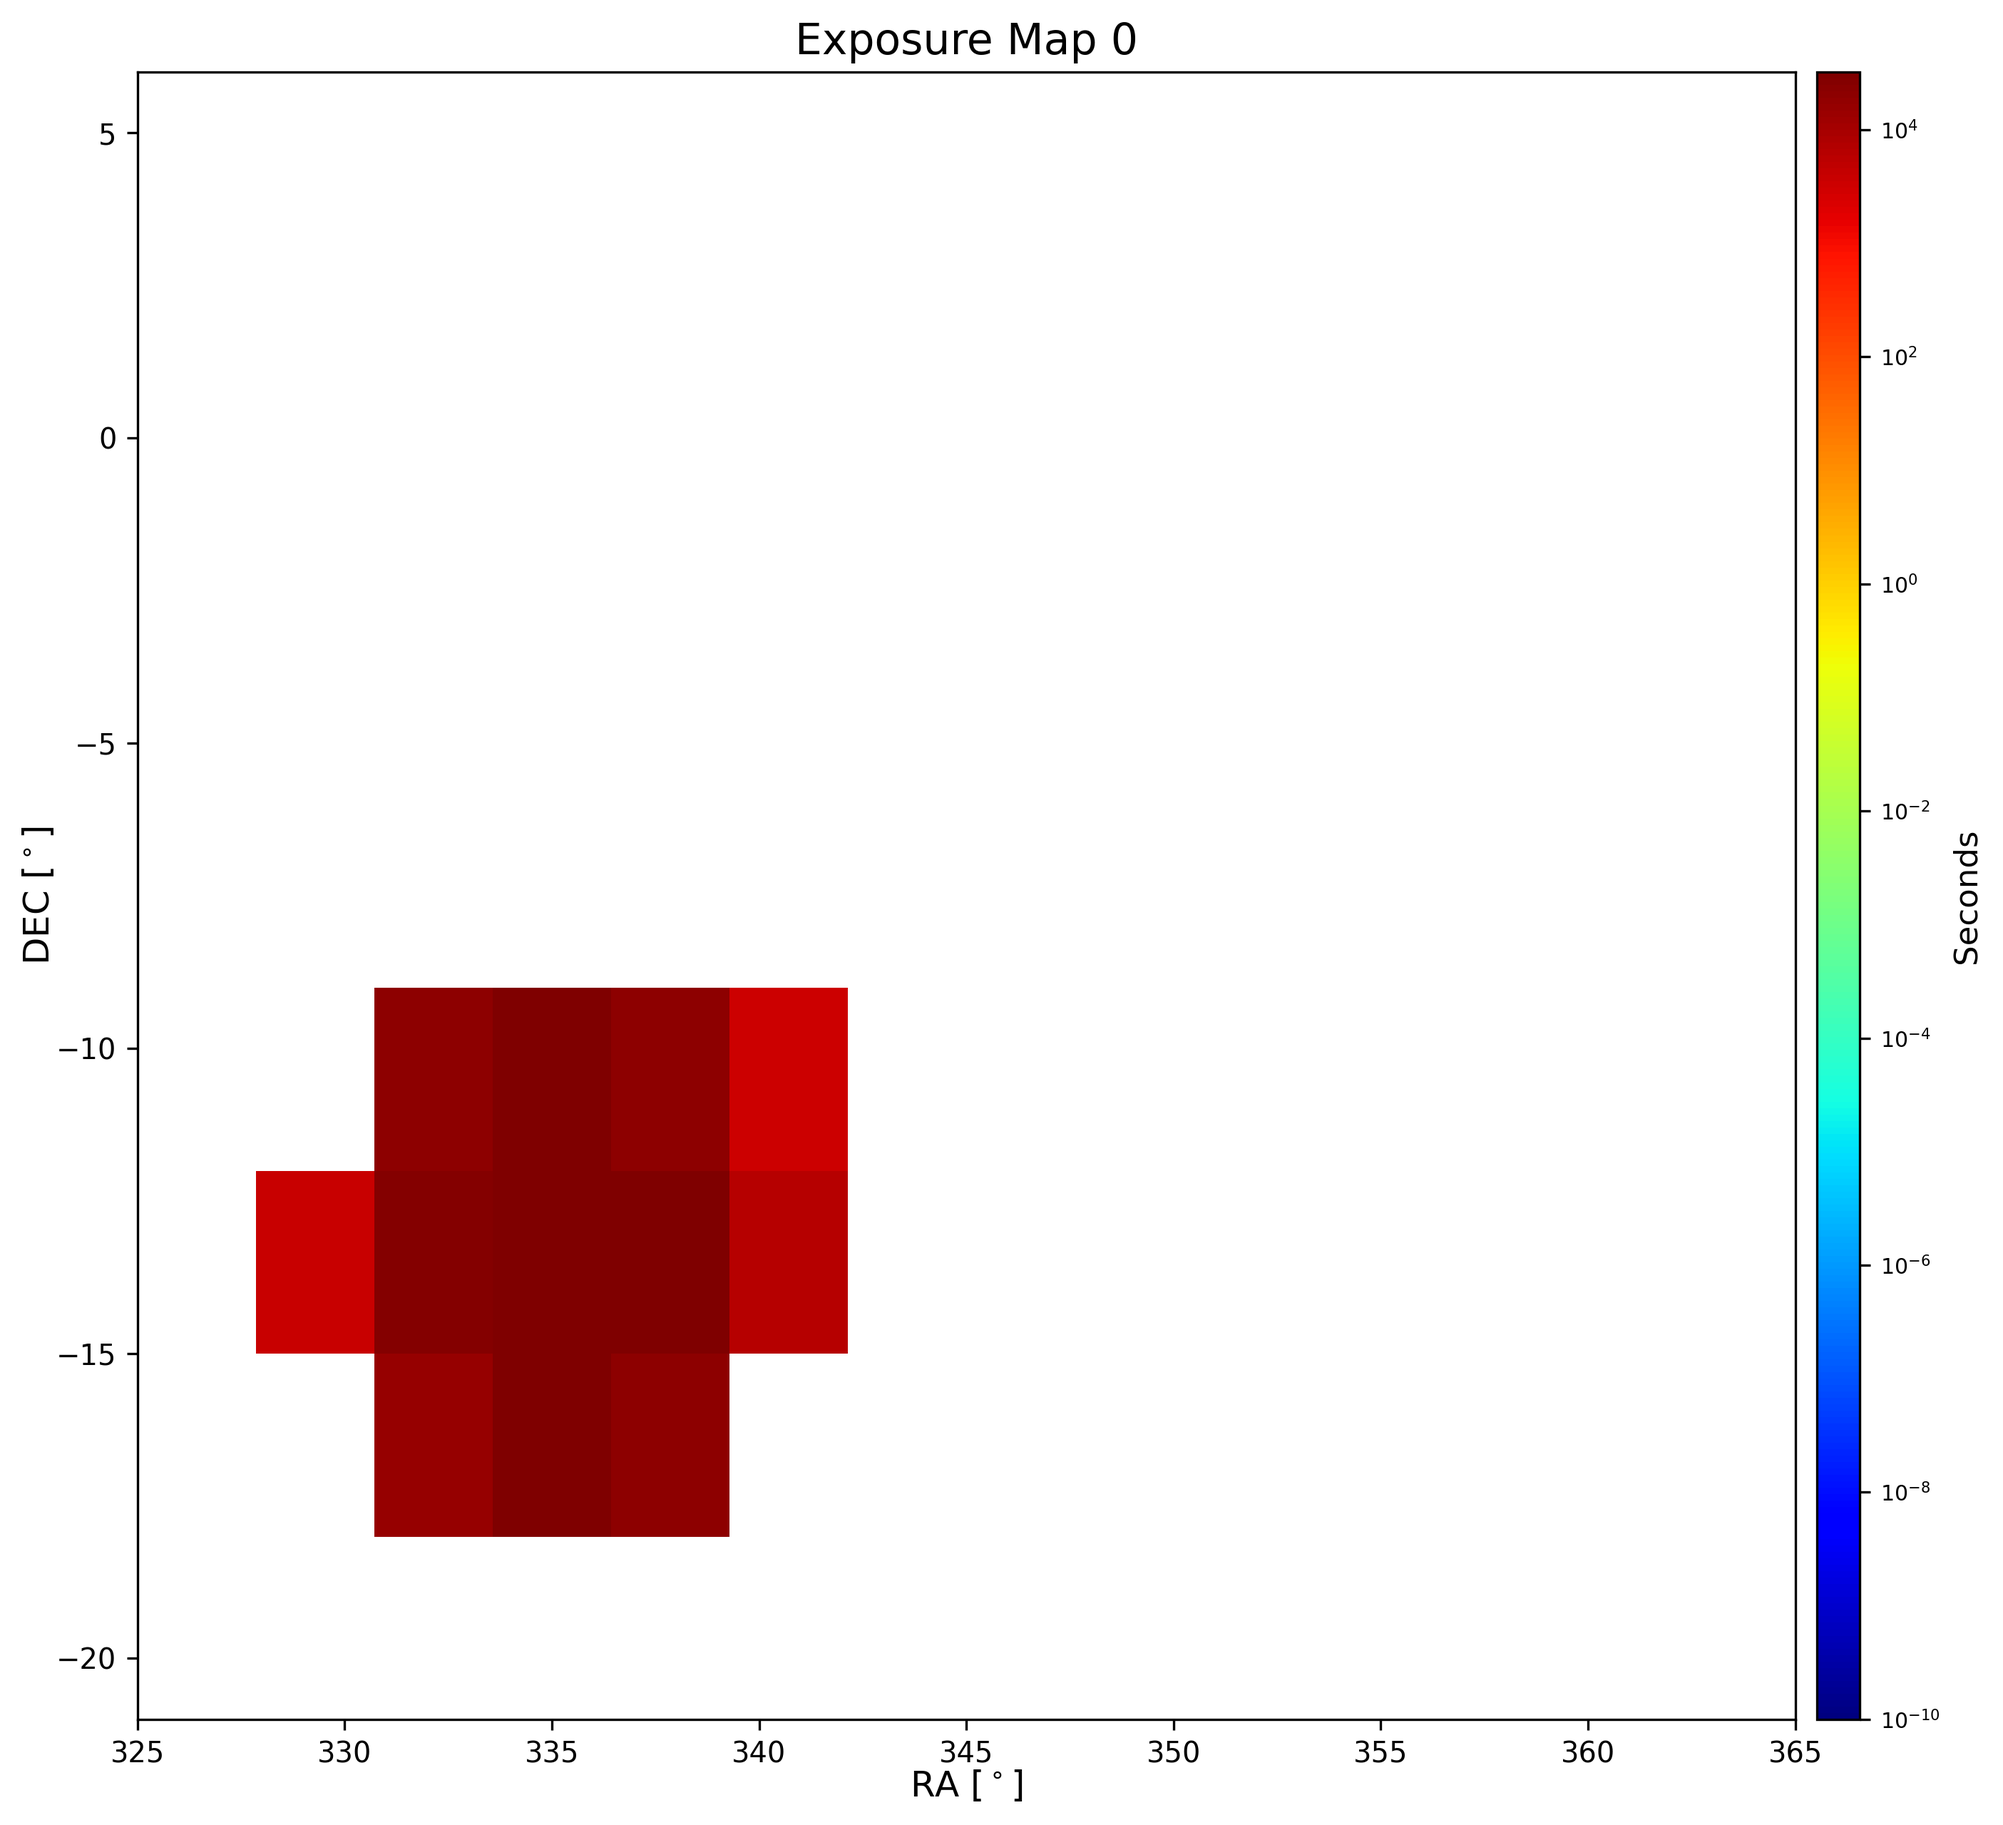
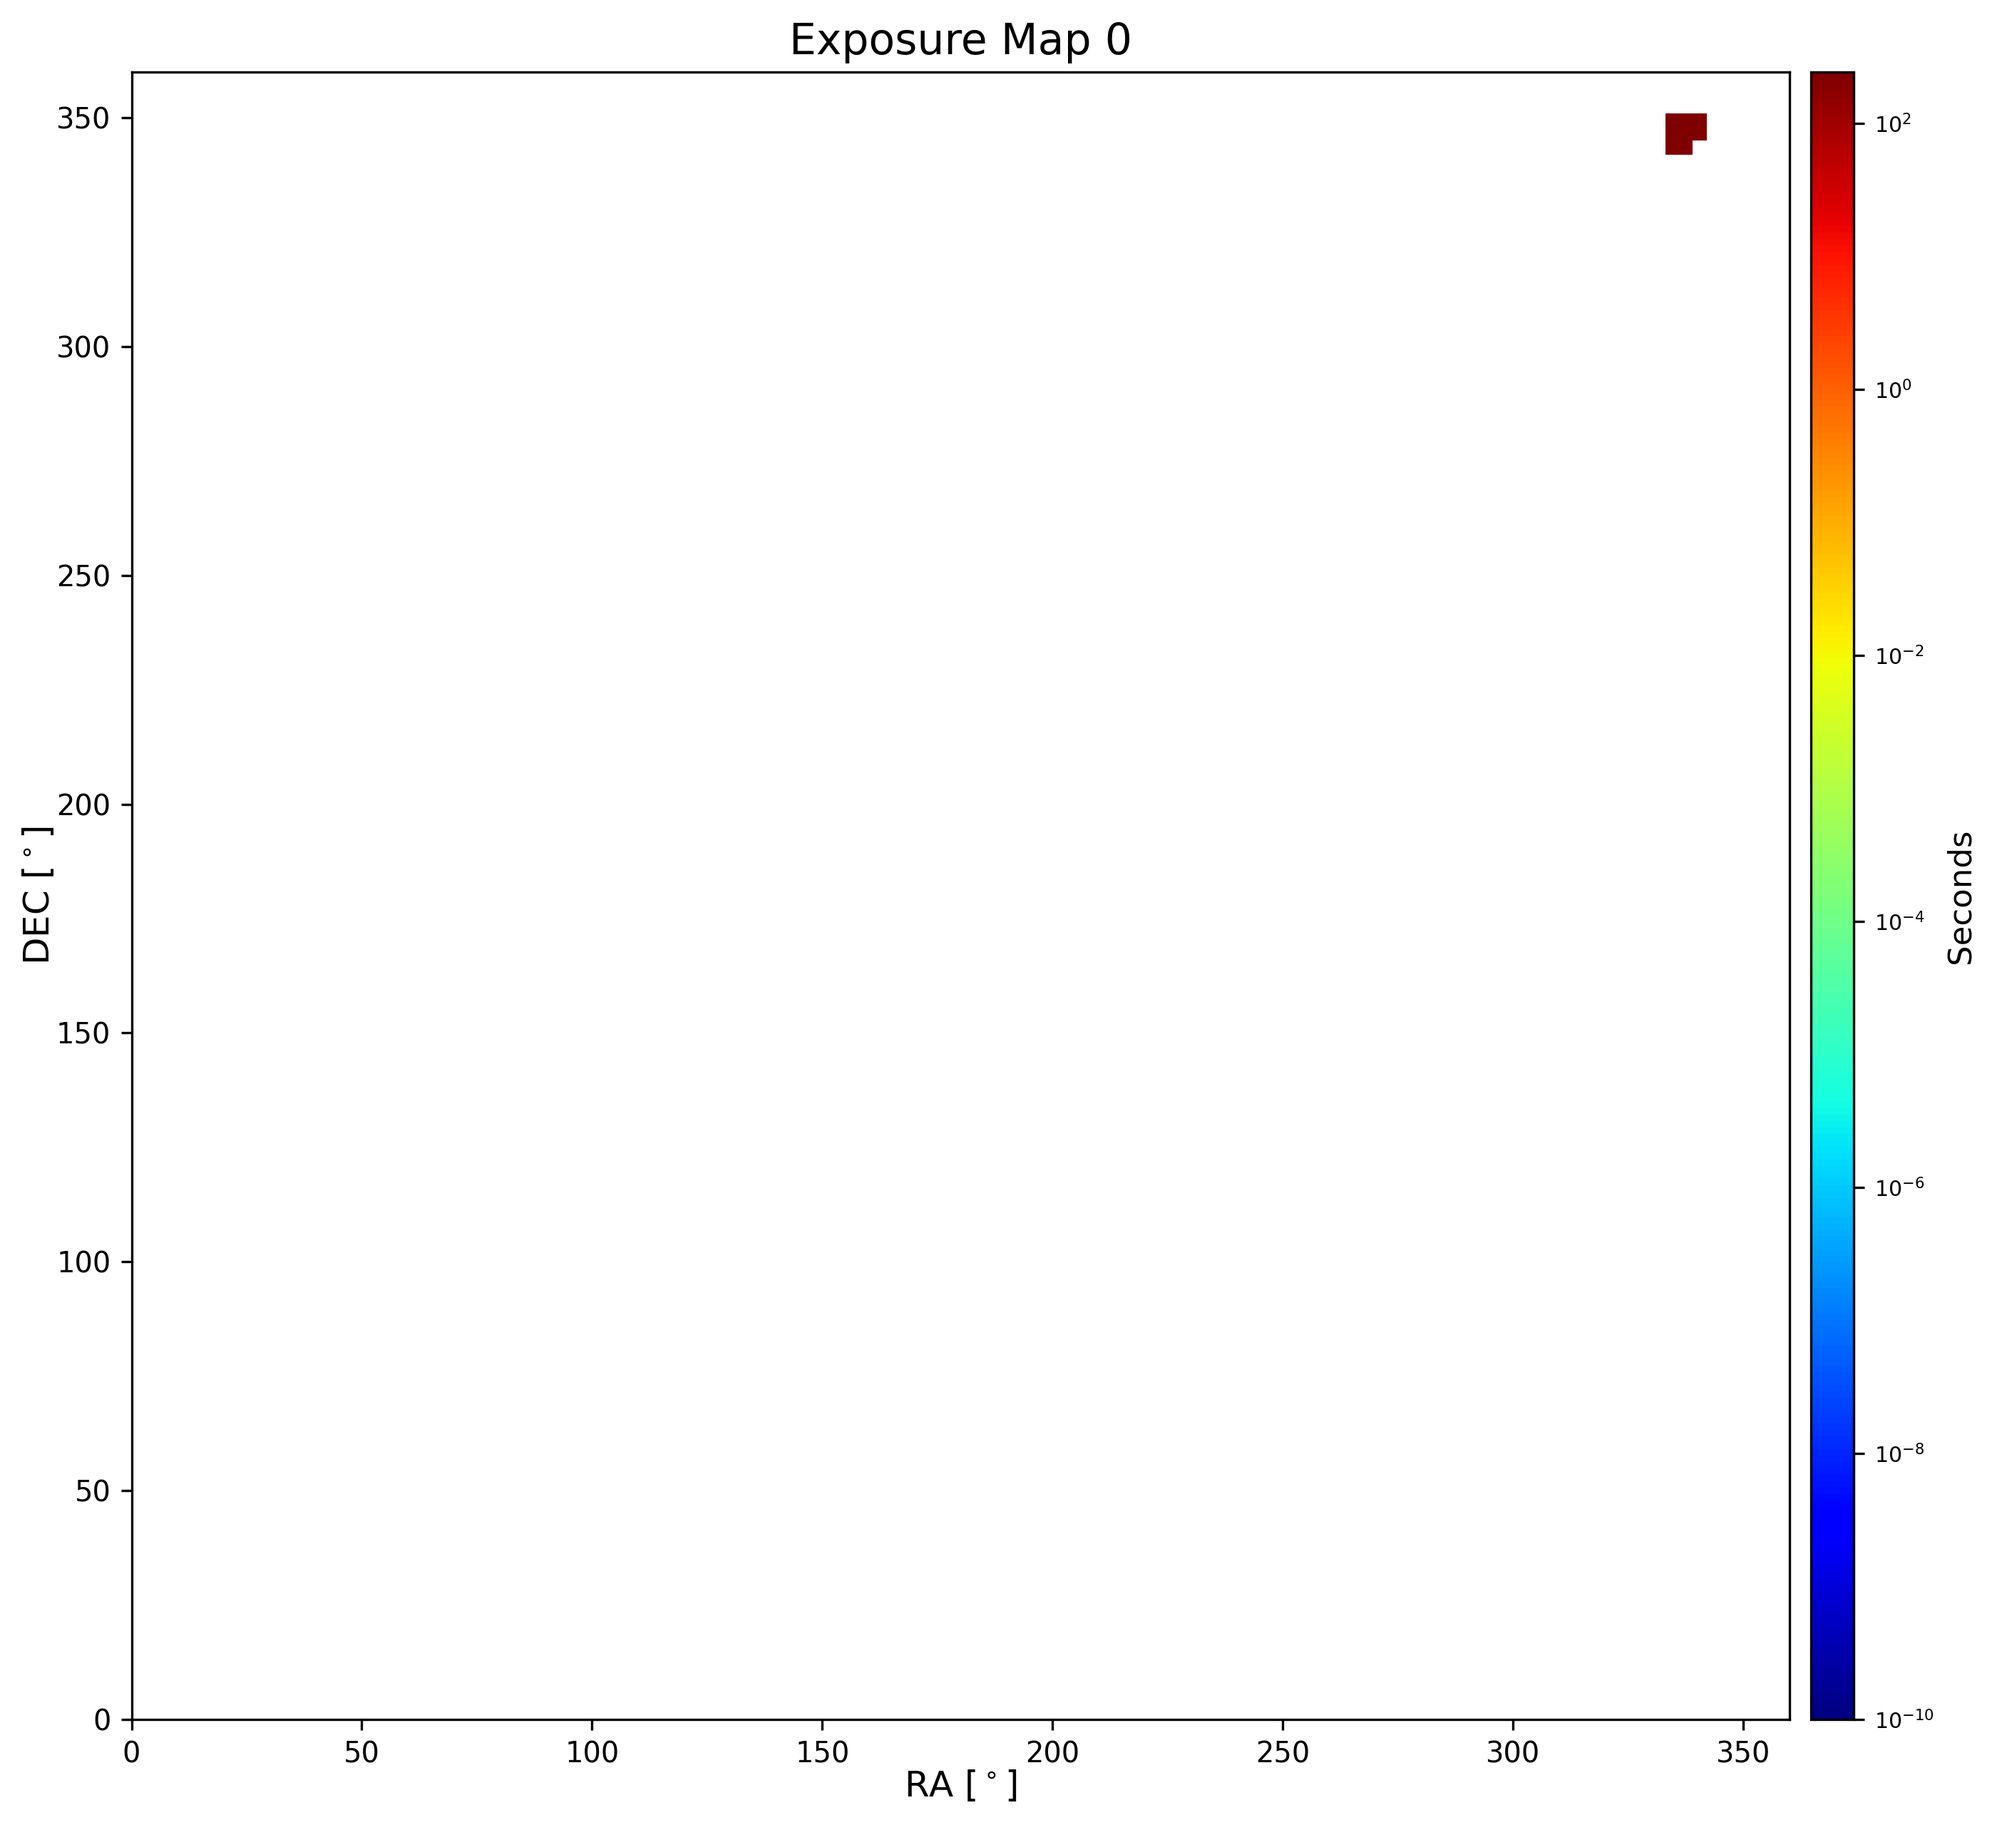
fixed thee issue of two different names for exposure files

diff --git a/lexi/lexi.py b/lexi/lexi.py
@@ -155,7 +155,12 @@ class LEXI:
         # this many seconds are added to each in-FOV cell in the exposure map.
         self.t_step = input_params.get("t_step", 0.5)
         # integration time in seconds for lexi histograms and exposure maps
-        self.t_integrate = input_params.get("t_integrate", 60 * 10)
+        # If the integration time is not given, then set it to the time difference between the start
+        # and stop times in the t_range parameter
+        if input_params.get("t_integrate") is None:
+            self.t_integrate = (self.t_range[1] - self.t_range[0]).total_seconds()
+        else:
+            self.t_integrate = input_params.get("t_integrate", 60 * 10)
 
         # RA range to plot, in degrees. [start RA, end RA]
         self.ra_range = input_params.get("ra_range", [0.0, 360.0])
@@ -353,15 +358,14 @@ class LEXI:
         dec_range and dec_res.
         """
         try:
-            # Read the exposure map from a pickle file
-            # TODO: Must match filename to the save_maps step; and the filename should include ALL
-            # the params
+            # Read the exposure map from a pickle file, if it exists
             # Define the folder where the exposure maps are saved
             save_folder = Path(__file__).resolve().parent.parent / "data/exposure_maps"
-            exposure_maps = np.load(
-                f"{save_folder}/exposure_map_rares_{self.ra_res}_decres_{self.dec_res}_tstep_{self.t_step}_t0_{self.t_range[0]}_tf_{self.t_range[1]}.npy"
+            exposure_maps_file_name = f"{save_folder}/exposure_map_rares_{self.ra_res}_decres_{self.dec_res}_tstep_{self.t_step}_t0_{self.t_range[0]}_tf_{self.t_range[1]}.npy"
+            exposure_maps = np.load(exposure_maps_file_name)
+            print(
+                f"Exposure map loaded from file \033[92m {exposure_maps_file_name} \033[0m\n"
             )
-            print("Exposure map loaded from file \n")
         except FileNotFoundError:
             print("Exposure map not found, computing now. This may take a while \n")
 
@@ -417,8 +421,8 @@ class LEXI:
                     f"Computing exposure map ==> \x1b[1;32;255m {np.round(map_idx/len(integ_groups)*100, 6)}\x1b[0m % complete",
                     end="\r",
                 )
-
-            # TODO: see above re filename and matching
+            print("\n")
+            print(f"The value of save_maps is {save_maps}\n")
             if save_maps:
                 # Define the folder to save the exposure maps to
                 save_folder = (
@@ -426,12 +430,13 @@ class LEXI:
                 )
                 # If the folder doesn't exist, then create it
                 Path(save_folder).mkdir(parents=True, exist_ok=True)
+                print(f"Saving exposure map to file: {save_folder}")
+                exposure_maps_file_name = f"{save_folder}/exposure_map_rares_{self.ra_res}_decres_{self.dec_res}_tstep_{self.t_step}_t0_{self.t_range[0]}_tf_{self.t_range[1]}.npy"
                 # Save the exposure map array to a pickle file
-                np.save(
-                    f"{save_folder}/exposure_map_rares_{self.ra_res}_decres_{self.dec_res}_tstep_{self.t_step}_t0_{self.t_range[0]}_tf_{self.t_range[1]}.npy",
-                    exposure_maps,
+                np.save(exposure_maps_file_name, exposure_maps)
+                print(
+                    f"Exposure map saved to file: \033[92m {exposure_maps_file_name} \033[0m \n"
                 )
-
         if self.save_exposure_maps:
             print("Saving exposure maps as images")
             for i, exposure in enumerate(exposure_maps):
@@ -506,9 +511,7 @@ class LEXI:
             dec_range and dec_res.
         """
         # Get exposure maps
-        exposure_maps = self.get_exposure_maps(
-            save_maps=False  # TODO: check if save_df param was for only final dfs, or for these too
-        )
+        exposure_maps = self.get_exposure_maps(save_maps=True)
 
         # Get ROSAT background
         # Ultimately someone is supposed to provide this file and we will have it saved somewhere static.
@@ -629,7 +632,7 @@ class LEXI:
 
         # For now try reading CDF just from here
         photons_cdf = pycdf.CDF(
-            #"data/from_PIT/20230816/processed_data/sci/level_1c/cdf/1.0.0/lexi_payload_1716500621_21694_level_1c_1.0.0.cdf"
+            # "data/from_PIT/20230816/processed_data/sci/level_1c/cdf/1.0.0/lexi_payload_1716500621_21694_level_1c_1.0.0.cdf"
             "data/PIT_shifted_jul08.cdf"
         )
         photons_data = photons_cdf.copy()

diff --git a/lexi_test_script.py b/lexi_test_script.py
@@ -8,10 +8,10 @@ lexi = LEXI(
             "2024-07-08T21:43:41",
             "2024-07-08T21:48:41",
         ],
-        "t_integrate": 60 * 10,  # 10 minutes - spans whole range
+        # "t_integrate": 60 * 10,  # 10 minutes - spans whole range
         "t_step": 3,  # 1, #30
-        #"ra_range": [325.0, 365.0],
-        #"dec_range": [-21.0, 6.0],
+        # "ra_range": [325.0, 365.0],
+        # "dec_range": [-21.0, 6.0],
         "ra_range": [0, 360],
         "dec_range": [0, 360],
         "ra_res": 3,
@@ -28,6 +28,6 @@ lexi = LEXI(
 # Get exposure maps
 # expmaps = lexi.get_exposure_maps()
 # Get sky backgrounds
-# skybgs = lexi.get_sky_backgrounds()
+skybgs = lexi.get_sky_backgrounds()
 # Get background corrected images
-hists = lexi.get_lexi_images()
+# hists = lexi.get_lexi_images()
